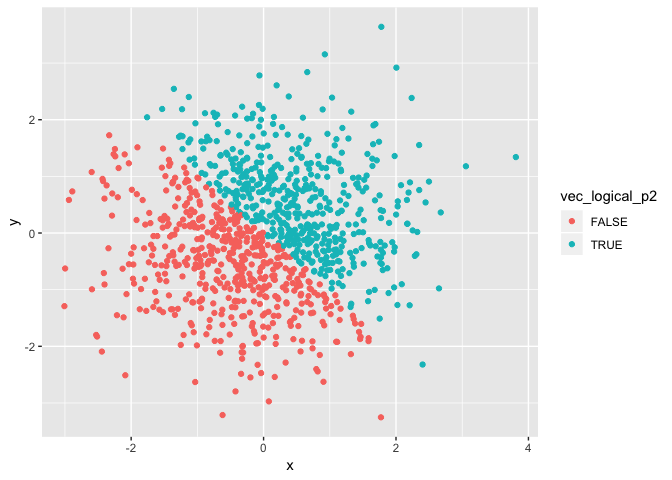
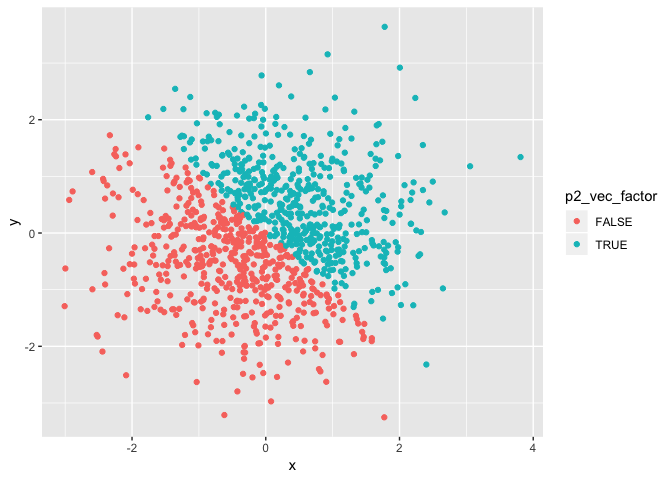
Correct mistakes in question 2 code chunk, rename some variables, add question description to question 2.

diff --git a/p8105_hw1_bs3142.md b/p8105_hw1_bs3142.md
@@ -9,6 +9,8 @@ Problem 1
 Create data frame
 -----------------
 
+Load package tidyverse
+
 ``` r
 library(tidyverse)
 ```
@@ -24,13 +26,15 @@ library(tidyverse)
     ## ✖ dplyr::filter() masks stats::filter()
     ## ✖ dplyr::lag()    masks stats::lag()
 
+*Create a data frame comprised of:* \* A random sample of size 10 from a uniform\[0, 5\] distribution. \* A logical vector indicating whether elements of the sample are greater than 2. \* A (length-10) character vector. \* A (length-10) factor vector.
+
 ``` r
 set.seed(1)
 
 p1_df = tibble(
-  random_sample = runif(n = 10, min = 0, max = 5),
+  random_sample_q1 = runif(n = 10, min = 0, max = 5),
   vec_char = c("This", "is", "trying", "to", "answer", "question", "one", "of", "homework", "one"),
-  vec_logical = c(random_sample > 2),
+  vec_logical = c(random_sample_q1 > 2),
   vec_factor = factor(c("blue", "green", "blue", "green", "green", "blue", "blue", "green", "blue", "green"))
 )
 ```
@@ -41,7 +45,12 @@ p1_df = tibble(
 mean(p1_df$random_sample)
 ```
 
-    ## [1] 2.757569
+    ## Warning: Unknown or uninitialised column: 'random_sample'.
+
+    ## Warning in mean.default(p1_df$random_sample): argument is not numeric or
+    ## logical: returning NA
+
+    ## [1] NA
 
 ``` r
 mean(p1_df$vec_char)
@@ -122,31 +131,13 @@ Create data frame
 Create a data frame comprised of: x: a random sample of size 1000 from a standard Normal distribution y: a random sample of size 1000 from a standard Normal distribution A logical vector indicating whether the x + y &gt; 0 A numeric vector created by coercing the above logical vector A factor vector created by coercing the above logical vector
 
 ``` r
-p2_df = tibble(
-  x = rnorm(n = 1000, mean = 0, sd = 1),
-  y = rnorm(n = 1000, mean = 0, sd = 1),
-  vec_logical_p2 = c(x + y > 0),
-  vec_numeric_p2 = c(vec_logical_p2),
-  vec_factor_p2 = c(vec_logical_p2)
+p2_df = tibble(x = rnorm(n = 1000, mean = 0, sd = 1),
+               y = rnorm(n = 1000, mean = 0, sd = 1),
+               p2_vec_logical = c(x + y > 0),
+               p2_vec_numeric = as.numeric(p2_vec_logical),
+               p2_vec_factor = as.factor(p2_vec_logical),
 )
-
-p2_df
 ```
-
-    ## # A tibble: 1,000 x 5
-    ##         x      y vec_logical_p2 vec_numeric_p2 vec_factor_p2
-    ##     <dbl>  <dbl> <lgl>          <lgl>          <lgl>        
-    ##  1 -0.820 -1.66  FALSE          FALSE          FALSE        
-    ##  2  0.487  0.811 TRUE           TRUE           TRUE         
-    ##  3  0.738 -1.91  FALSE          FALSE          FALSE        
-    ##  4  0.576 -1.25  FALSE          FALSE          FALSE        
-    ##  5 -0.305  0.998 TRUE           TRUE           TRUE         
-    ##  6  1.51  -0.541 TRUE           TRUE           TRUE         
-    ##  7  0.390 -0.216 TRUE           TRUE           TRUE         
-    ##  8 -0.621 -1.62  FALSE          FALSE          FALSE        
-    ##  9 -2.21  -1.45  FALSE          FALSE          FALSE        
-    ## 10  1.12   0.351 TRUE           TRUE           TRUE         
-    ## # ... with 990 more rows
 
 Write a short description of your vector using inline R code, including: \* the size of the dataset \* the mean and median of x \* the proportion of cases for which the logical vector is TRUE
 
@@ -158,28 +149,28 @@ Scatterplot
 Make a scatterplot of y vs x.
 
 ``` r
-p2_xy_sp1 <- ggplot(p2_df, aes(x = x, y = y, color = vec_logical_p2)) + geom_point()
+p2_xy_sp1 <- ggplot(p2_df, aes(x = x, y = y, color = p2_vec_logical)) + geom_point()
 
 p2_xy_sp1
 ```
 
-![](p8105_hw1_bs3142_files/figure-markdown_github/unnamed-chunk-7-1.png) Blue dots represent x + y &gt; 0, and red dots represent x + y &lt; 0.
+![](p8105_hw1_bs3142_files/figure-markdown_github/unnamed-chunk-5-1.png) Blue dots represent x + y &gt; 0, and red dots represent x + y &lt; 0.
 
 ``` r
-p2_xy_sp2 <- ggplot(p2_df, aes(x =x, y = y, color = vec_numeric_p2)) + geom_point()
+p2_xy_sp2 <- ggplot(p2_df, aes(x =x, y = y, color = p2_vec_numeric)) + geom_point()
 
 p2_xy_sp2
 ```
 
-![](p8105_hw1_bs3142_files/figure-markdown_github/unnamed-chunk-8-1.png)
+![](p8105_hw1_bs3142_files/figure-markdown_github/unnamed-chunk-6-1.png)
 
 ``` r
-p2_xy_sp3 <- ggplot(p2_df, aes(x =x, y = y, color = vec_factor_p2)) + geom_point()
+p2_xy_sp3 <- ggplot(p2_df, aes(x =x, y = y, color = p2_vec_factor)) + geom_point()
 
 p2_xy_sp3
 ```
 
-![](p8105_hw1_bs3142_files/figure-markdown_github/unnamed-chunk-9-1.png)
+![](p8105_hw1_bs3142_files/figure-markdown_github/unnamed-chunk-7-1.png)
 
 They all look the same.
 
